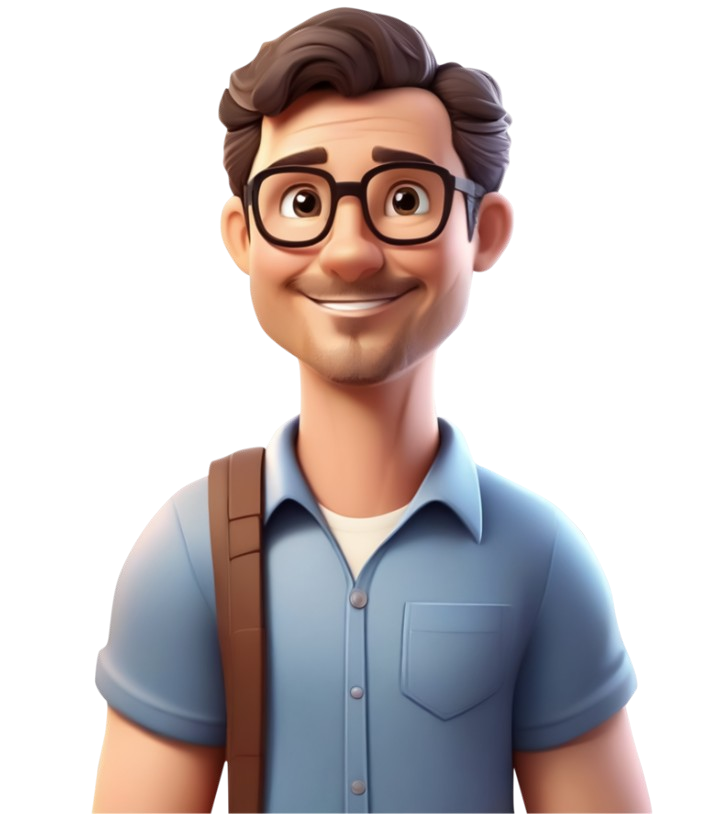
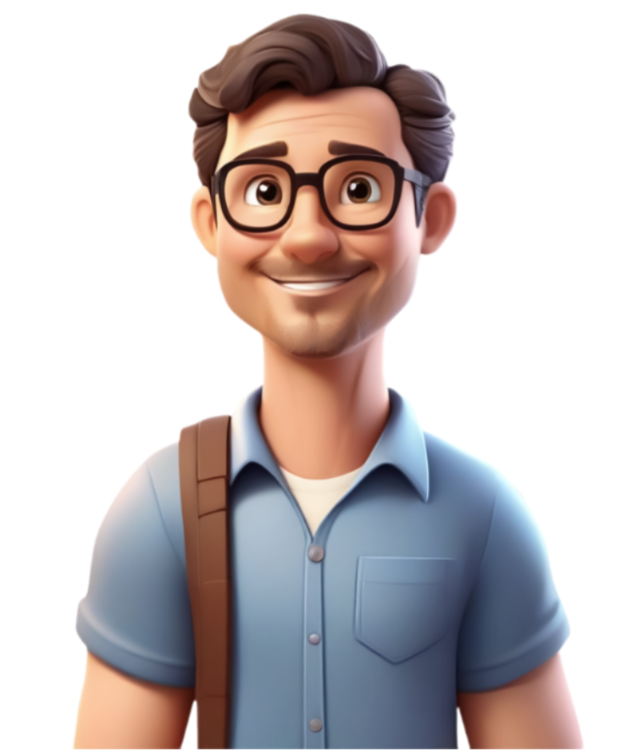
falta una cosa

diff --git a/index.html b/index.html
@@ -94,7 +94,7 @@
 
             <div class="box">
                 <div class="box-img">
-                    <img src="s2.png" alt="">
+                    <img src="s1.png" alt="">
                 </div>
                 <h3>Christian</h3>
                 <h5>Enriquez</h5>

diff --git a/style.css b/style.css
@@ -509,7 +509,7 @@ header.sticky{
         margin: 0 auto;
     }
     .about-img img{
-        max-width: 450px;
+        max-width: 200px;
         height: 100%;
         width: 100%;
         object-fit: contain;
